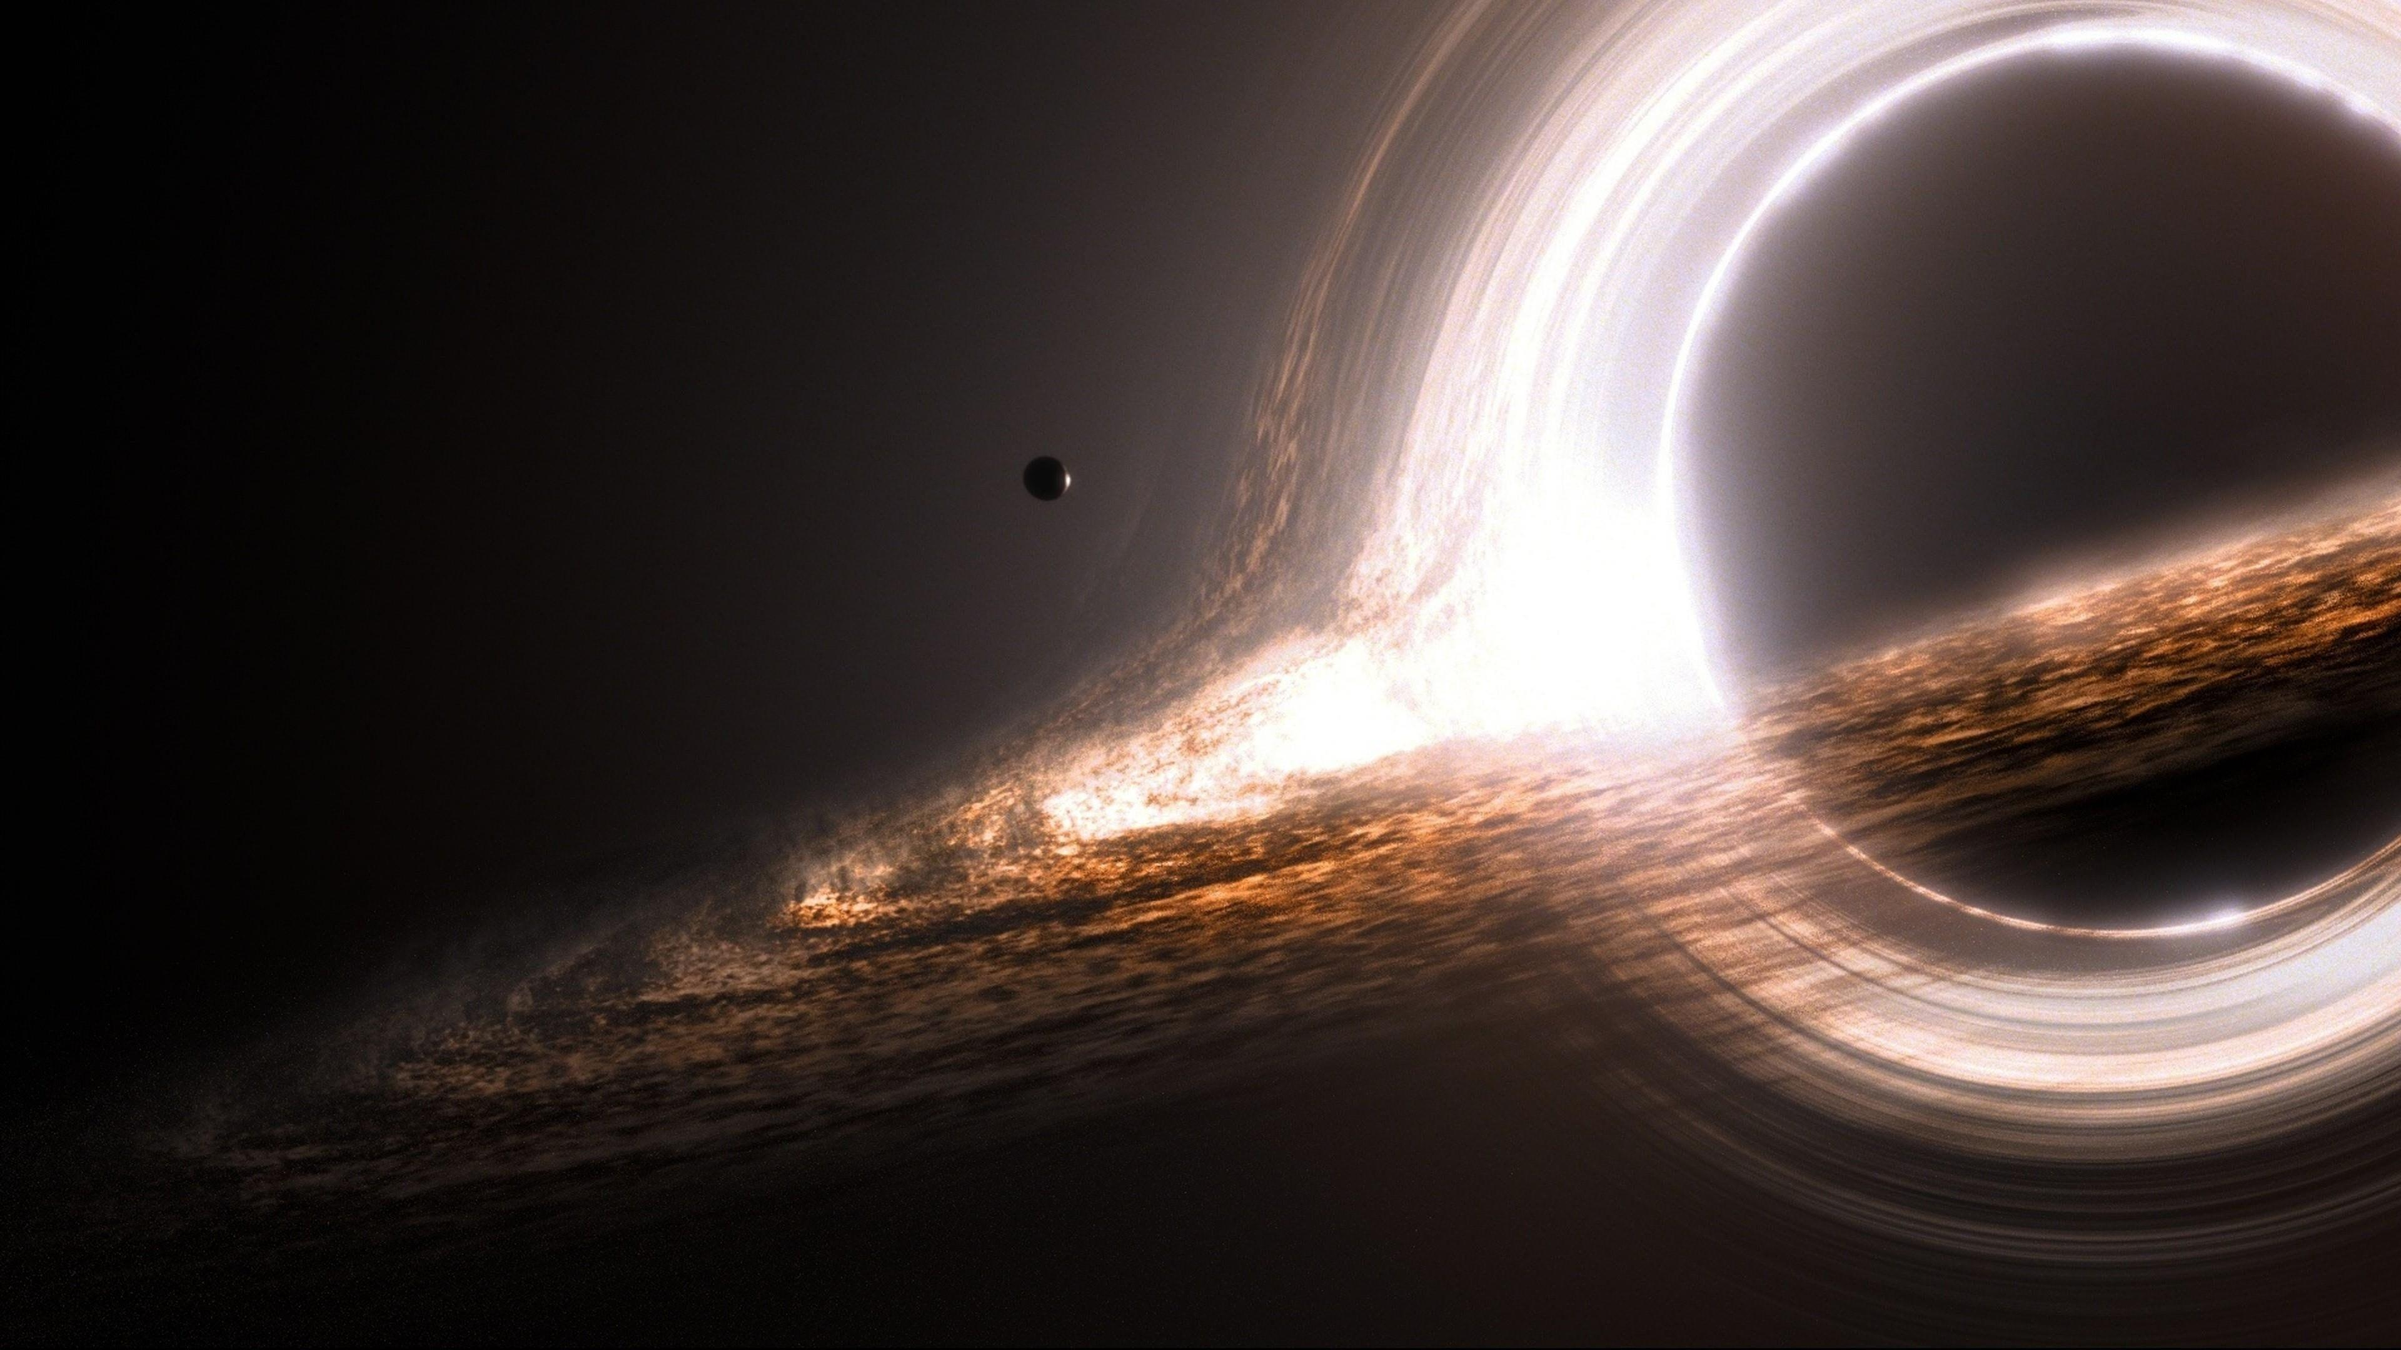
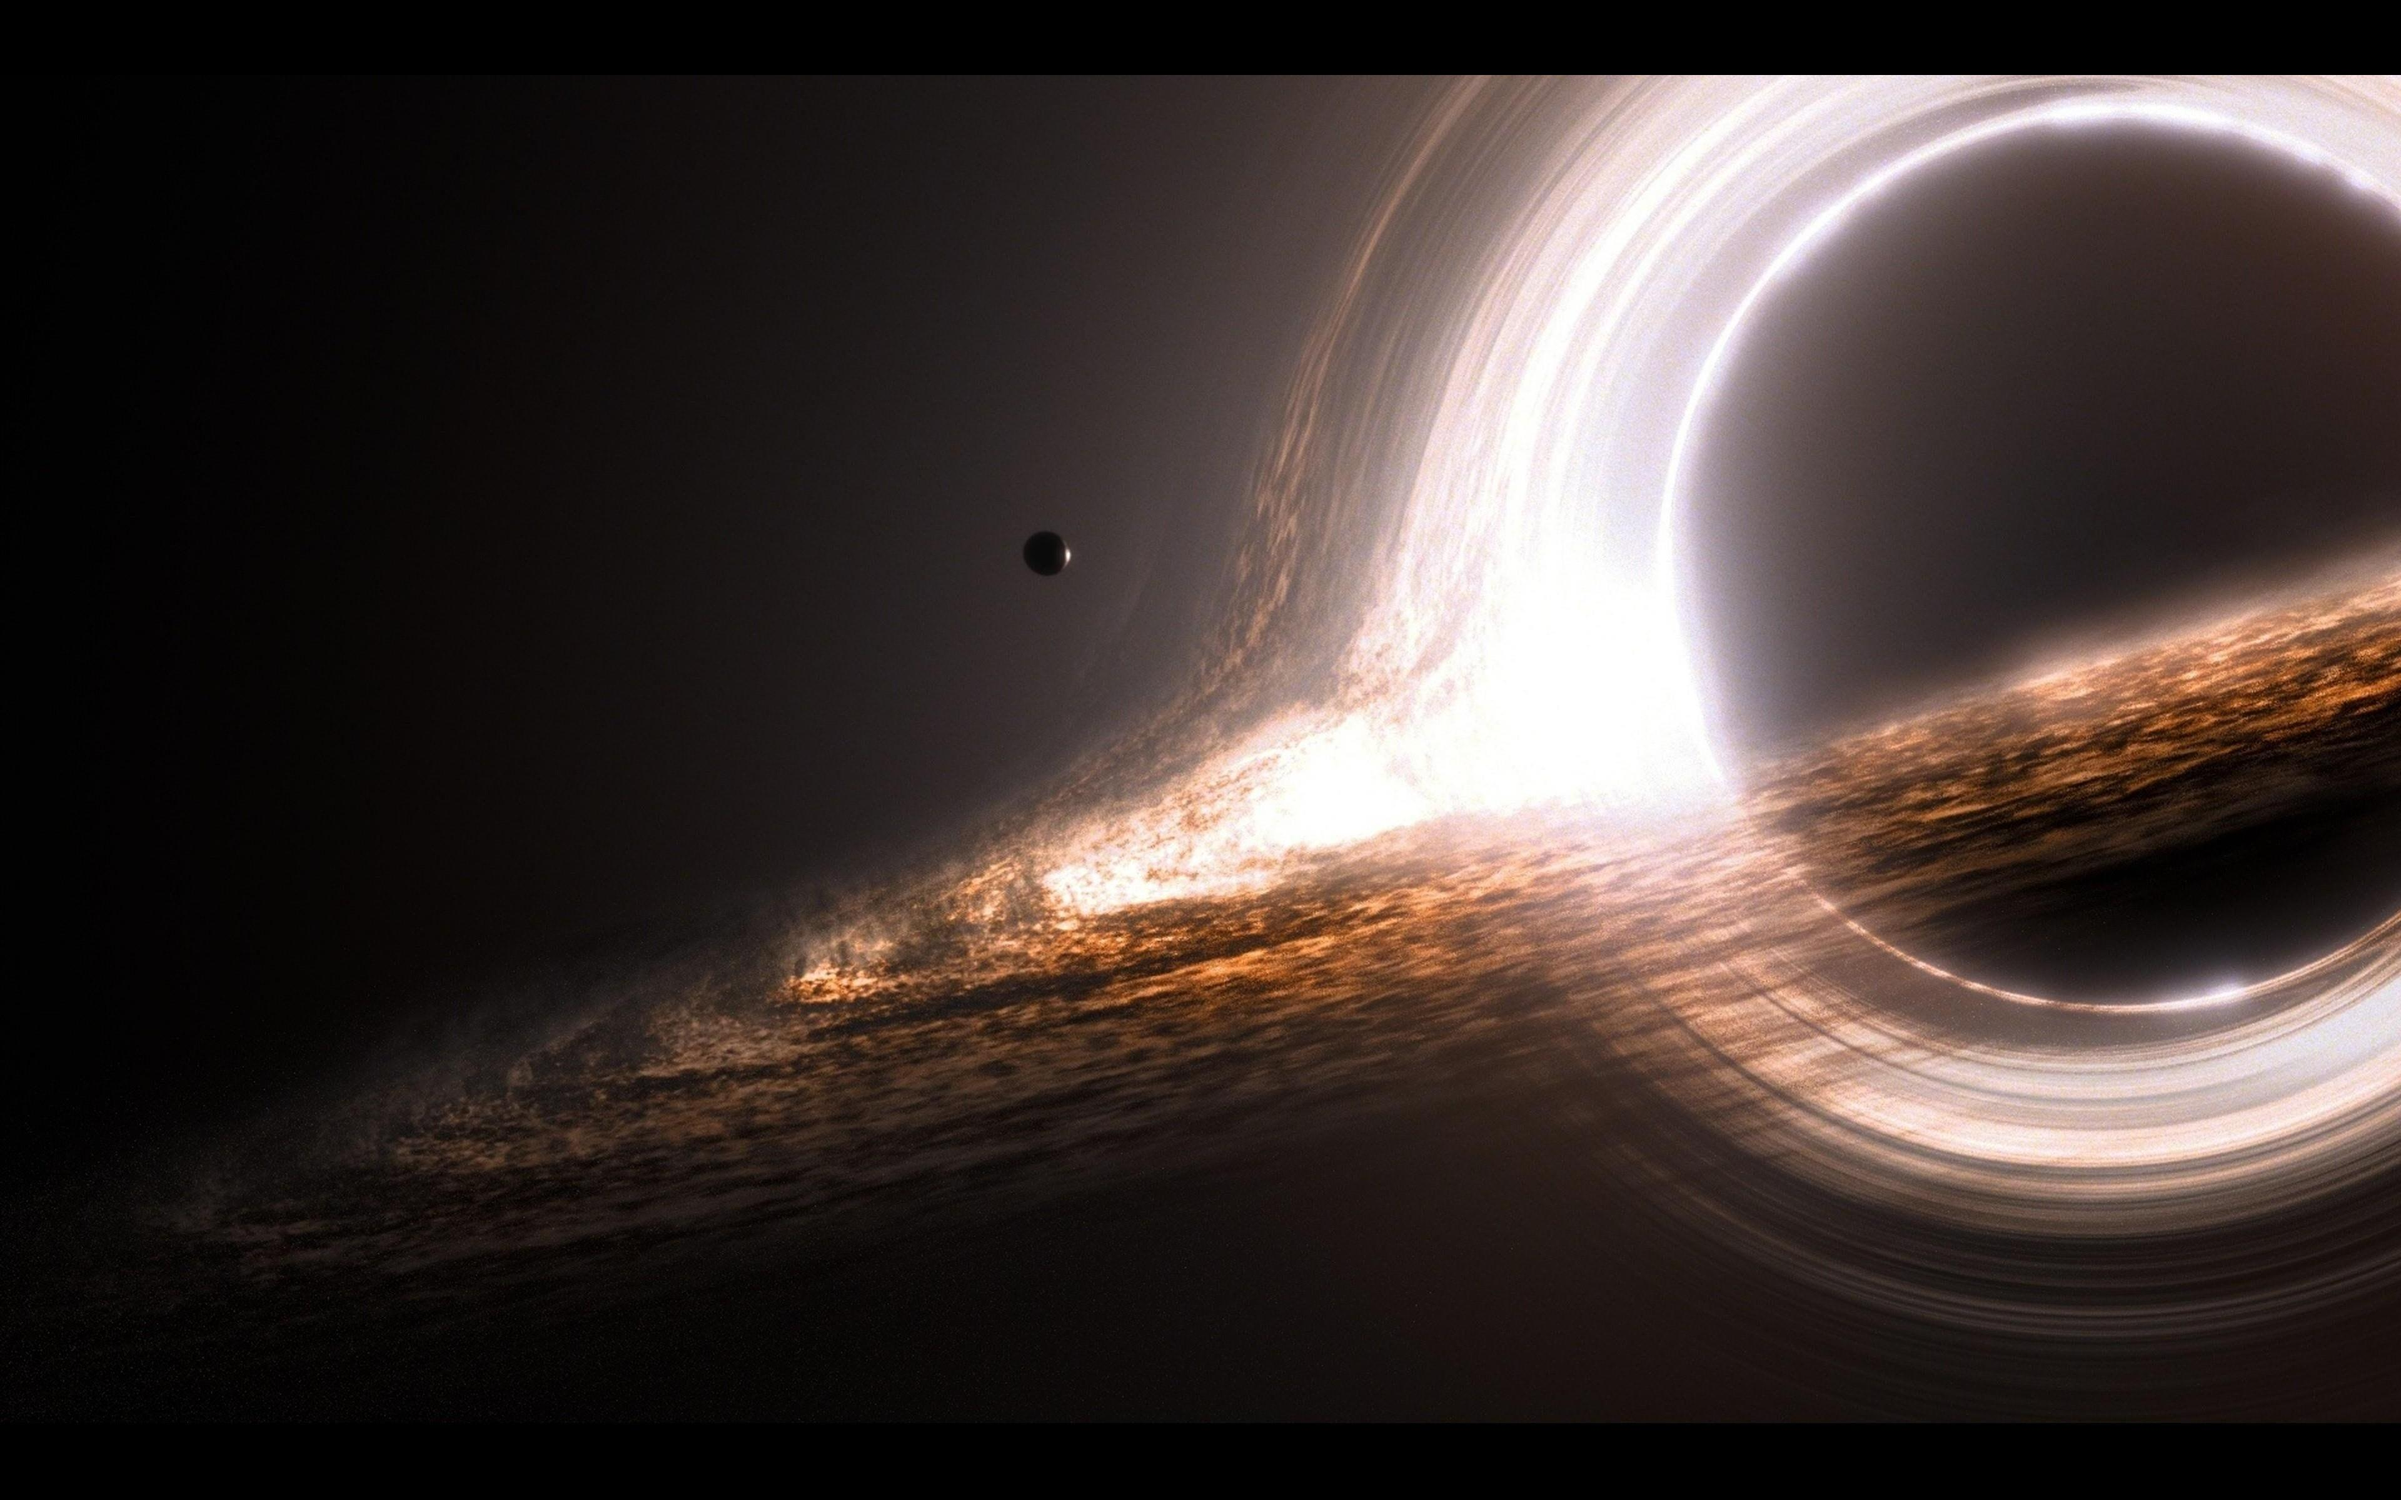
Added a change resize when aspect ratio is changed

diff --git a/CB_service/site/routes.py b/CB_service/site/routes.py
@@ -5,7 +5,7 @@ from os.path import isfile, join
 import secrets
 from CB_service import db
 from CB_service.models import User, Device, Settings, Session
-from CB_service.site.utils import resize_image
+from CB_service.site.utils import resize_image, resize_all_images
 
 site = Blueprint('site', __name__)
 
@@ -263,10 +263,10 @@ def update_settings(id):
 		if devi != None:
 
 			# Check if aspect ration is different so that it can resize all images
-			# resize = False
-			# if Settings.query.first().aspect_ratio_width != float(form.aspect_ratio.data.split(":")[0]) and \
-			# 	Settings.query.first().aspect_ratio_height != float(form.aspect_ratio.data.split(":")[1]):
-			# 	resize = True
+			resize = False
+			if devi.settings.aspect_ratio_width != float(request.json["aspect_ratio_width"]) or \
+				devi.settings.aspect_ratio_height != float(request.json["aspect_ratio_height"]):
+				resize = True
 
 			devi.settings.toggle_pay = request.json["toggle_pay"]
 			devi.settings.price = request.json["price"]
@@ -276,9 +276,8 @@ def update_settings(id):
 			devi.settings.aspect_ratio_width = request.json["aspect_ratio_width"]
 			devi.settings.aspect_ratio_height = request.json["aspect_ratio_height"]
 
-			# if resize:
-			# 	pic_files = PFI()
-			# 	pic_files.resize_all(Settings.query.first().aspect_ratio_width, Settings.query.first().aspect_ratio_height)
+			if resize:
+				resize_all_images(devi.settings.aspect_ratio_width, devi.settings.aspect_ratio_height, devi.id)
 
 			db.session.commit()
 

diff --git a/CB_service/site/utils.py b/CB_service/site/utils.py
@@ -1,4 +1,8 @@
+from flask import current_app
 from PIL import Image
+import os
+from os import listdir
+from os.path import isfile, join
 
 # Return a new image that is resized with black padding
 def resize_image(img_file, background_color, width, height):
@@ -23,3 +27,26 @@ def resize_image(img_file, background_color, width, height):
 		result = Image.new(img.mode, (int(new_width), img_height), background_color)
 		result.paste(img, ( (int(new_width) - img_width) // 2, 0))
 		return result
+
+def resize_all_images(new_width, new_height, id):
+	# Check if resized directory exists
+	# If not do nothing
+	path = os.path.join(current_app.root_path, 'static', 'picture_files', str(id))
+	re_path = os.path.join(current_app.root_path, 'static', 'picture_files', str(id), 'resized')
+	if os.path.isdir(re_path):
+		background_color = 'black'
+
+		# Grab all files in the resized directory
+		all_files = [f for f in listdir(re_path) if isfile(join(re_path, f))]
+		for file in all_files:
+			file_path = os.path.join(path, file)
+			re_file_path = os.path.join(re_path, file)
+
+			# Delete old resized image
+			os.remove(re_file_path)
+
+			# resize the original image
+			re_img = resize_image(file_path, background_color, new_width, new_height)
+
+			# Save the resized image
+			re_img.save(re_file_path)
